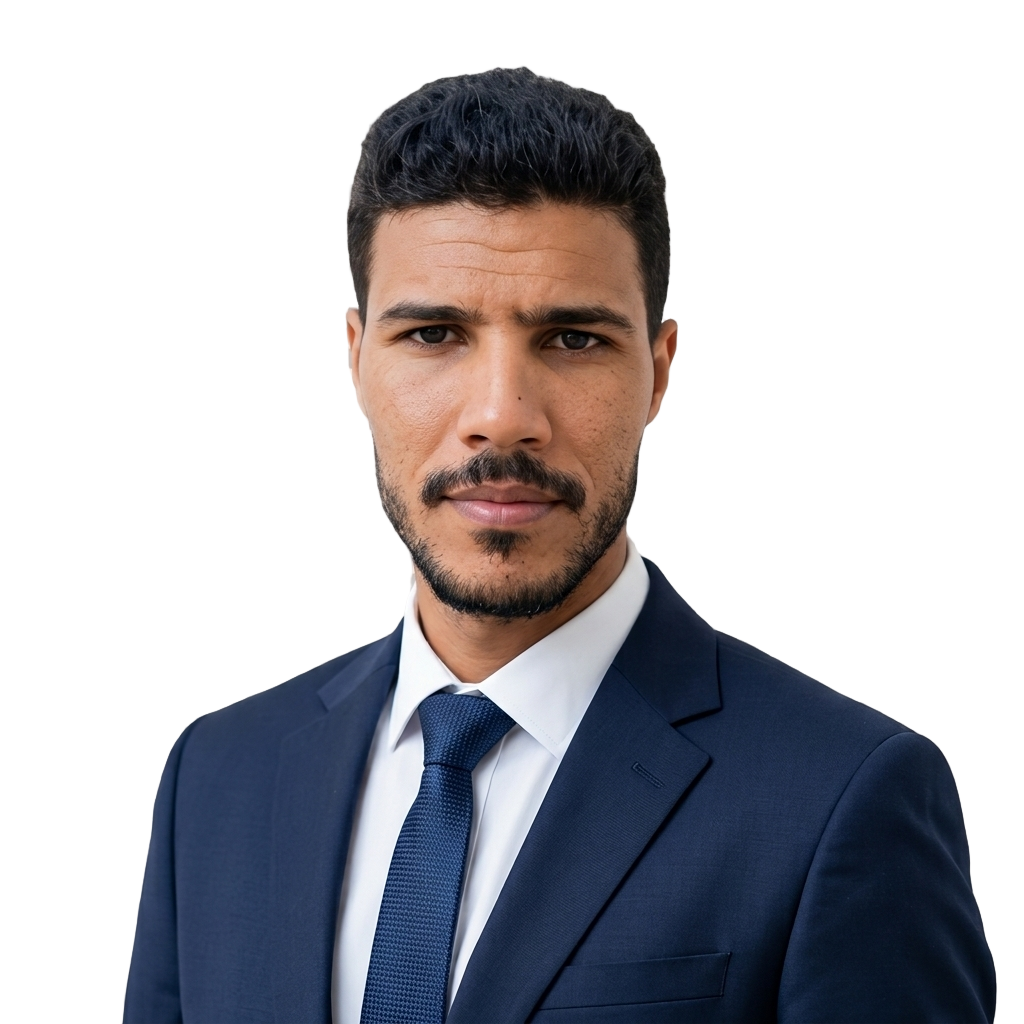
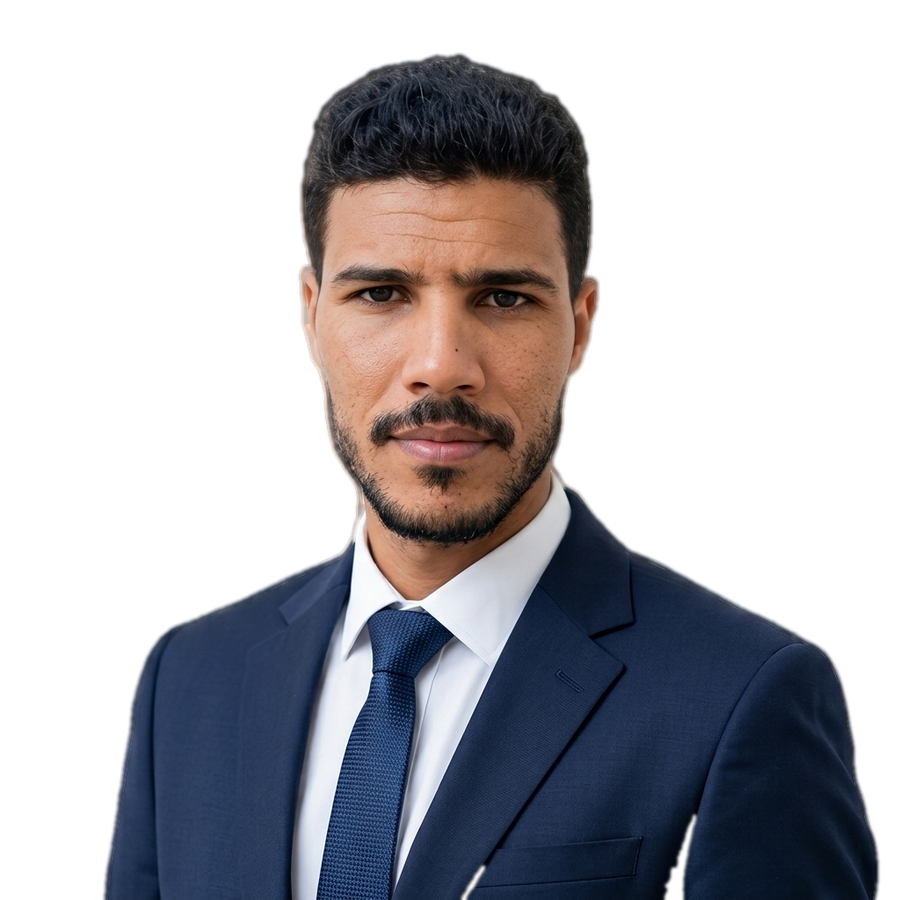
Use transparent cutout portrait in the hero
- Replace the black-background portrait with a transparent PNG cutout
- Optimize the image to 900px to cut file size from about 2.5MB to 0.7MB
- Fill the hero photo shape with a violet-to-aqua gradient instead of flat panel colour
- Anchor the photo crop to the bottom so the head and shoulders stay in frame

diff --git a/apps/web/src/app/globals.css b/apps/web/src/app/globals.css
@@ -544,7 +544,7 @@ body {
   overflow: hidden;
   border-radius: 58% 42% 52% 48% / 50% 58% 42% 50%;
   border: 2px solid rgb(255 255 255 / 0.14);
-  background: var(--color-panel);
+  background: linear-gradient(160deg, rgb(139 92 246 / 0.4), rgb(34 211 238 / 0.22) 70%, rgb(10 12 24 / 0.5));
   box-shadow: 0 0 80px -10px rgb(34 211 238 / 0.35);
 }
 .blob-outline {

diff --git a/apps/web/src/components/profile-photo.tsx b/apps/web/src/components/profile-photo.tsx
@@ -18,7 +18,7 @@ export function ProfilePhoto({ alt, priority = false }: { alt: string; priority?
         height={1000}
         priority={priority}
         sizes="(min-width: 1024px) 420px, 80vw"
-        className="h-full w-full object-cover"
+        className="h-full w-full object-cover object-bottom"
       />
     );
   }
